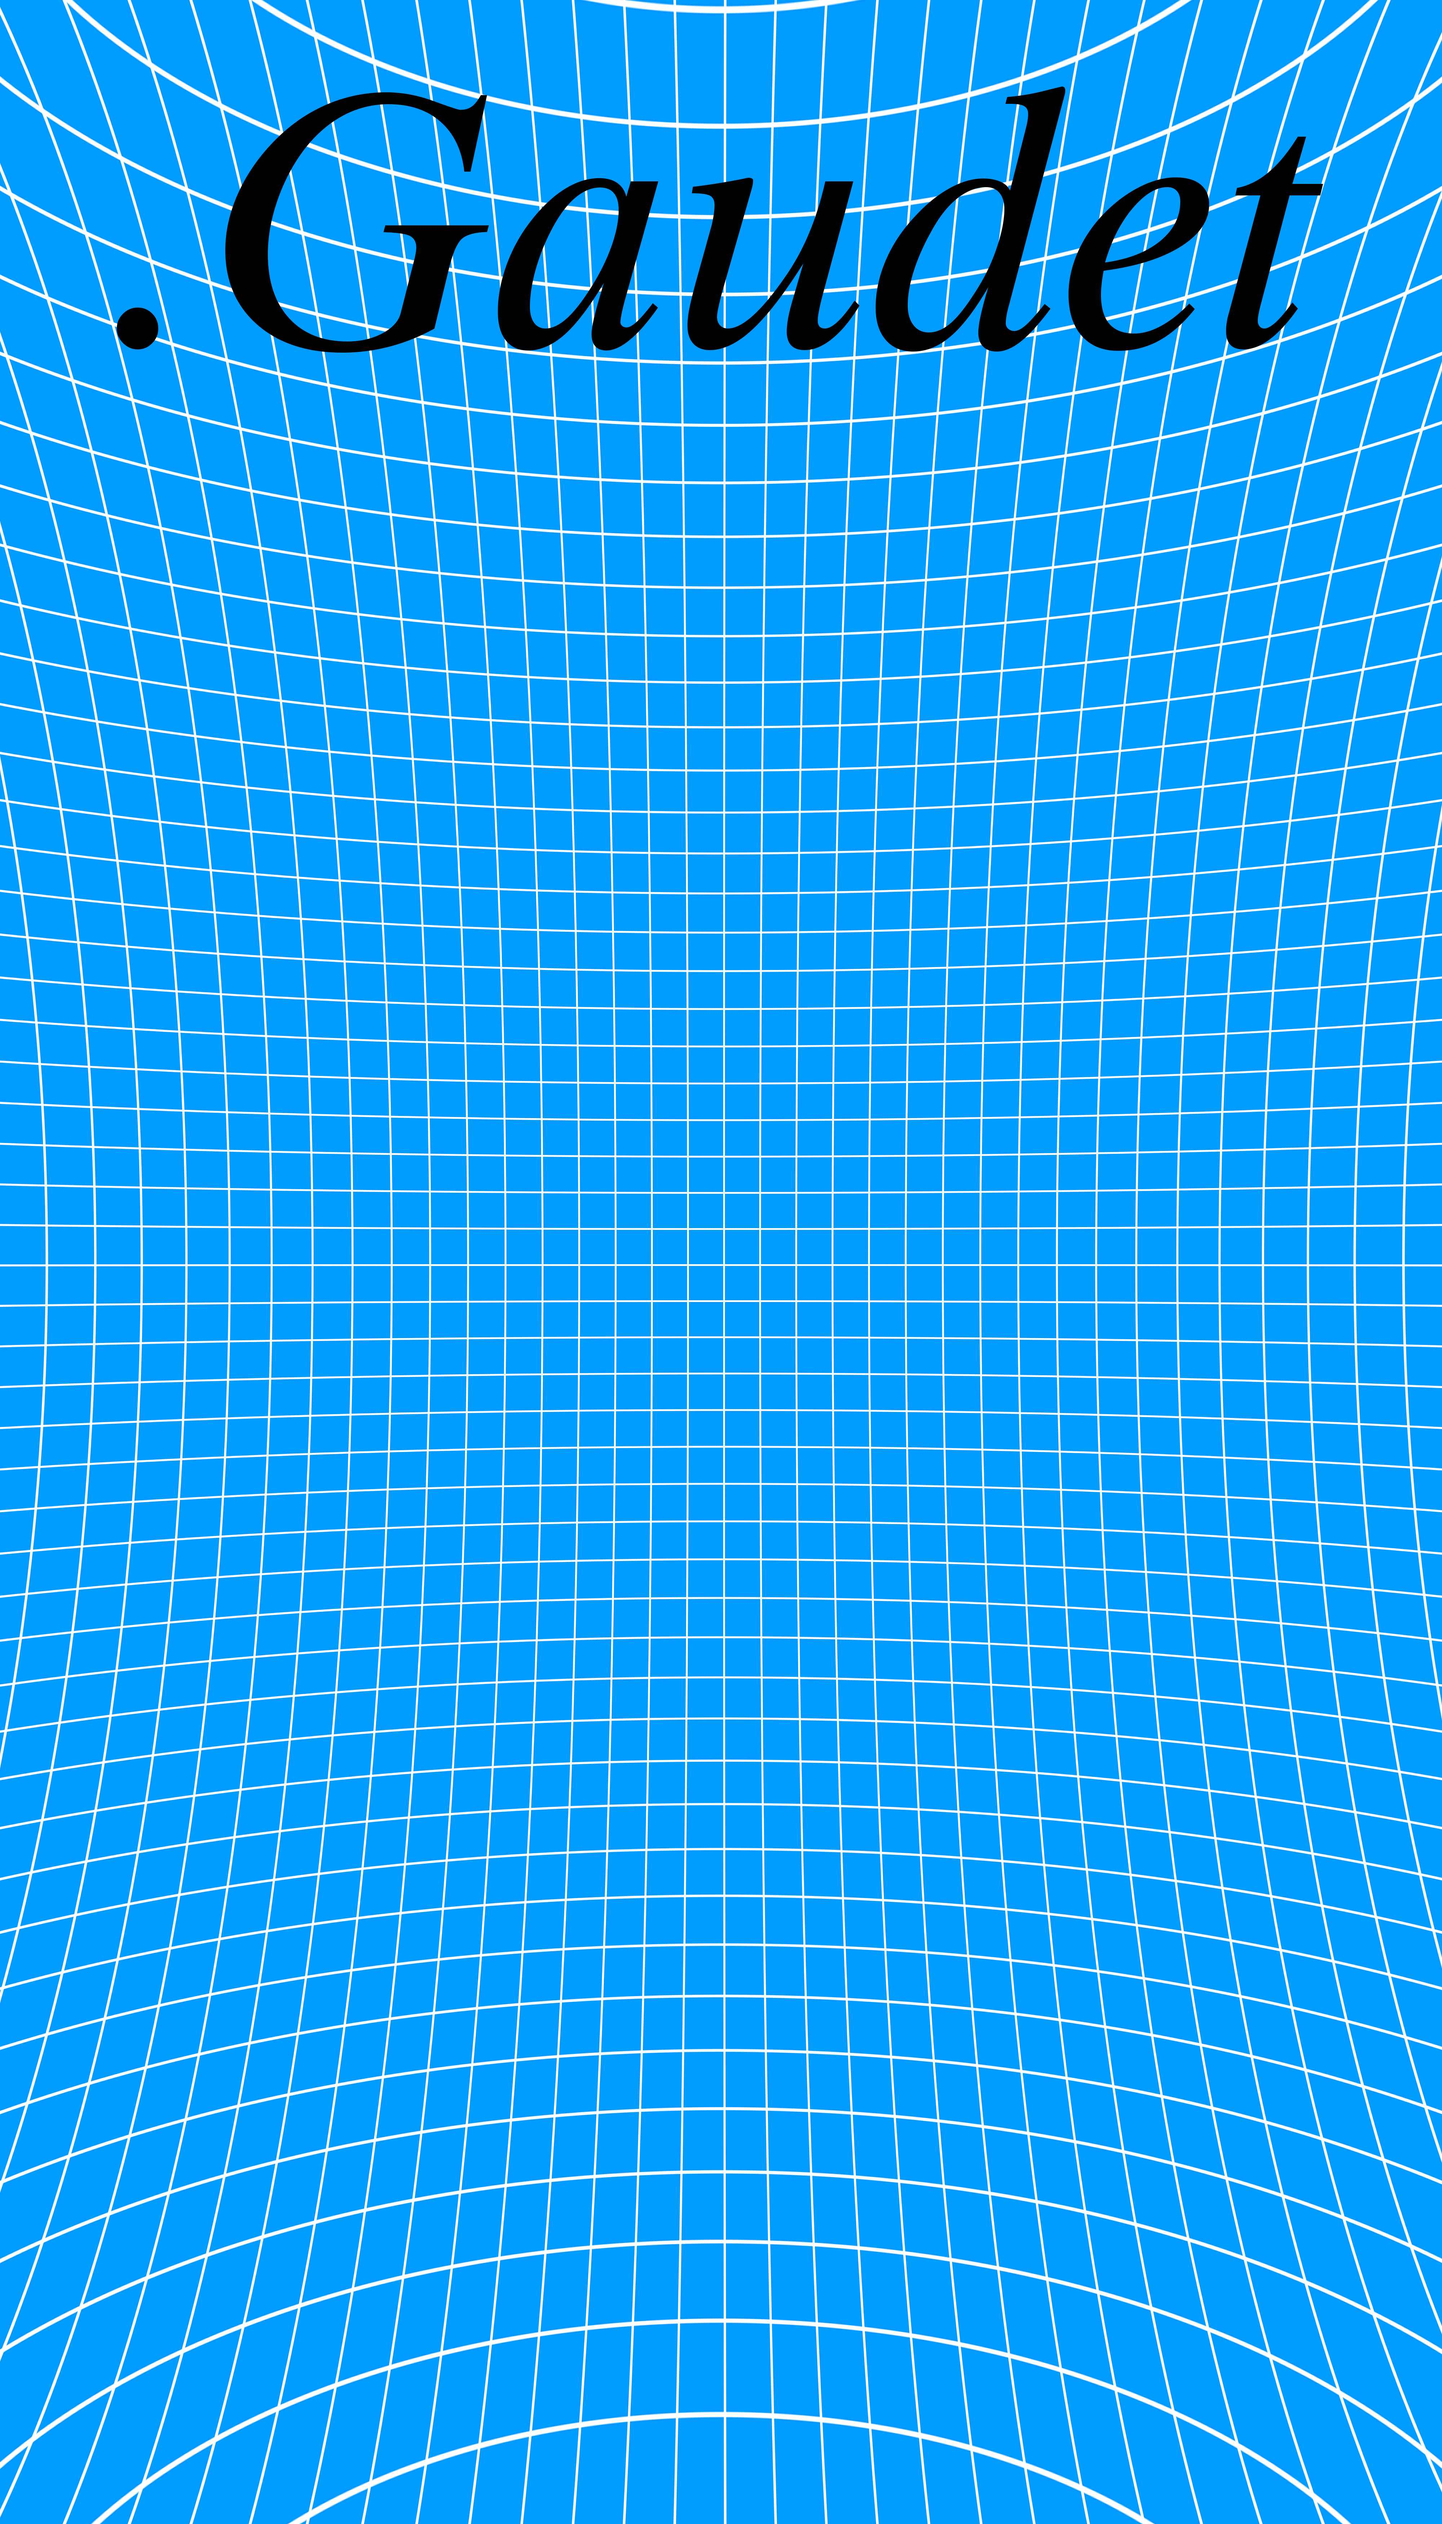
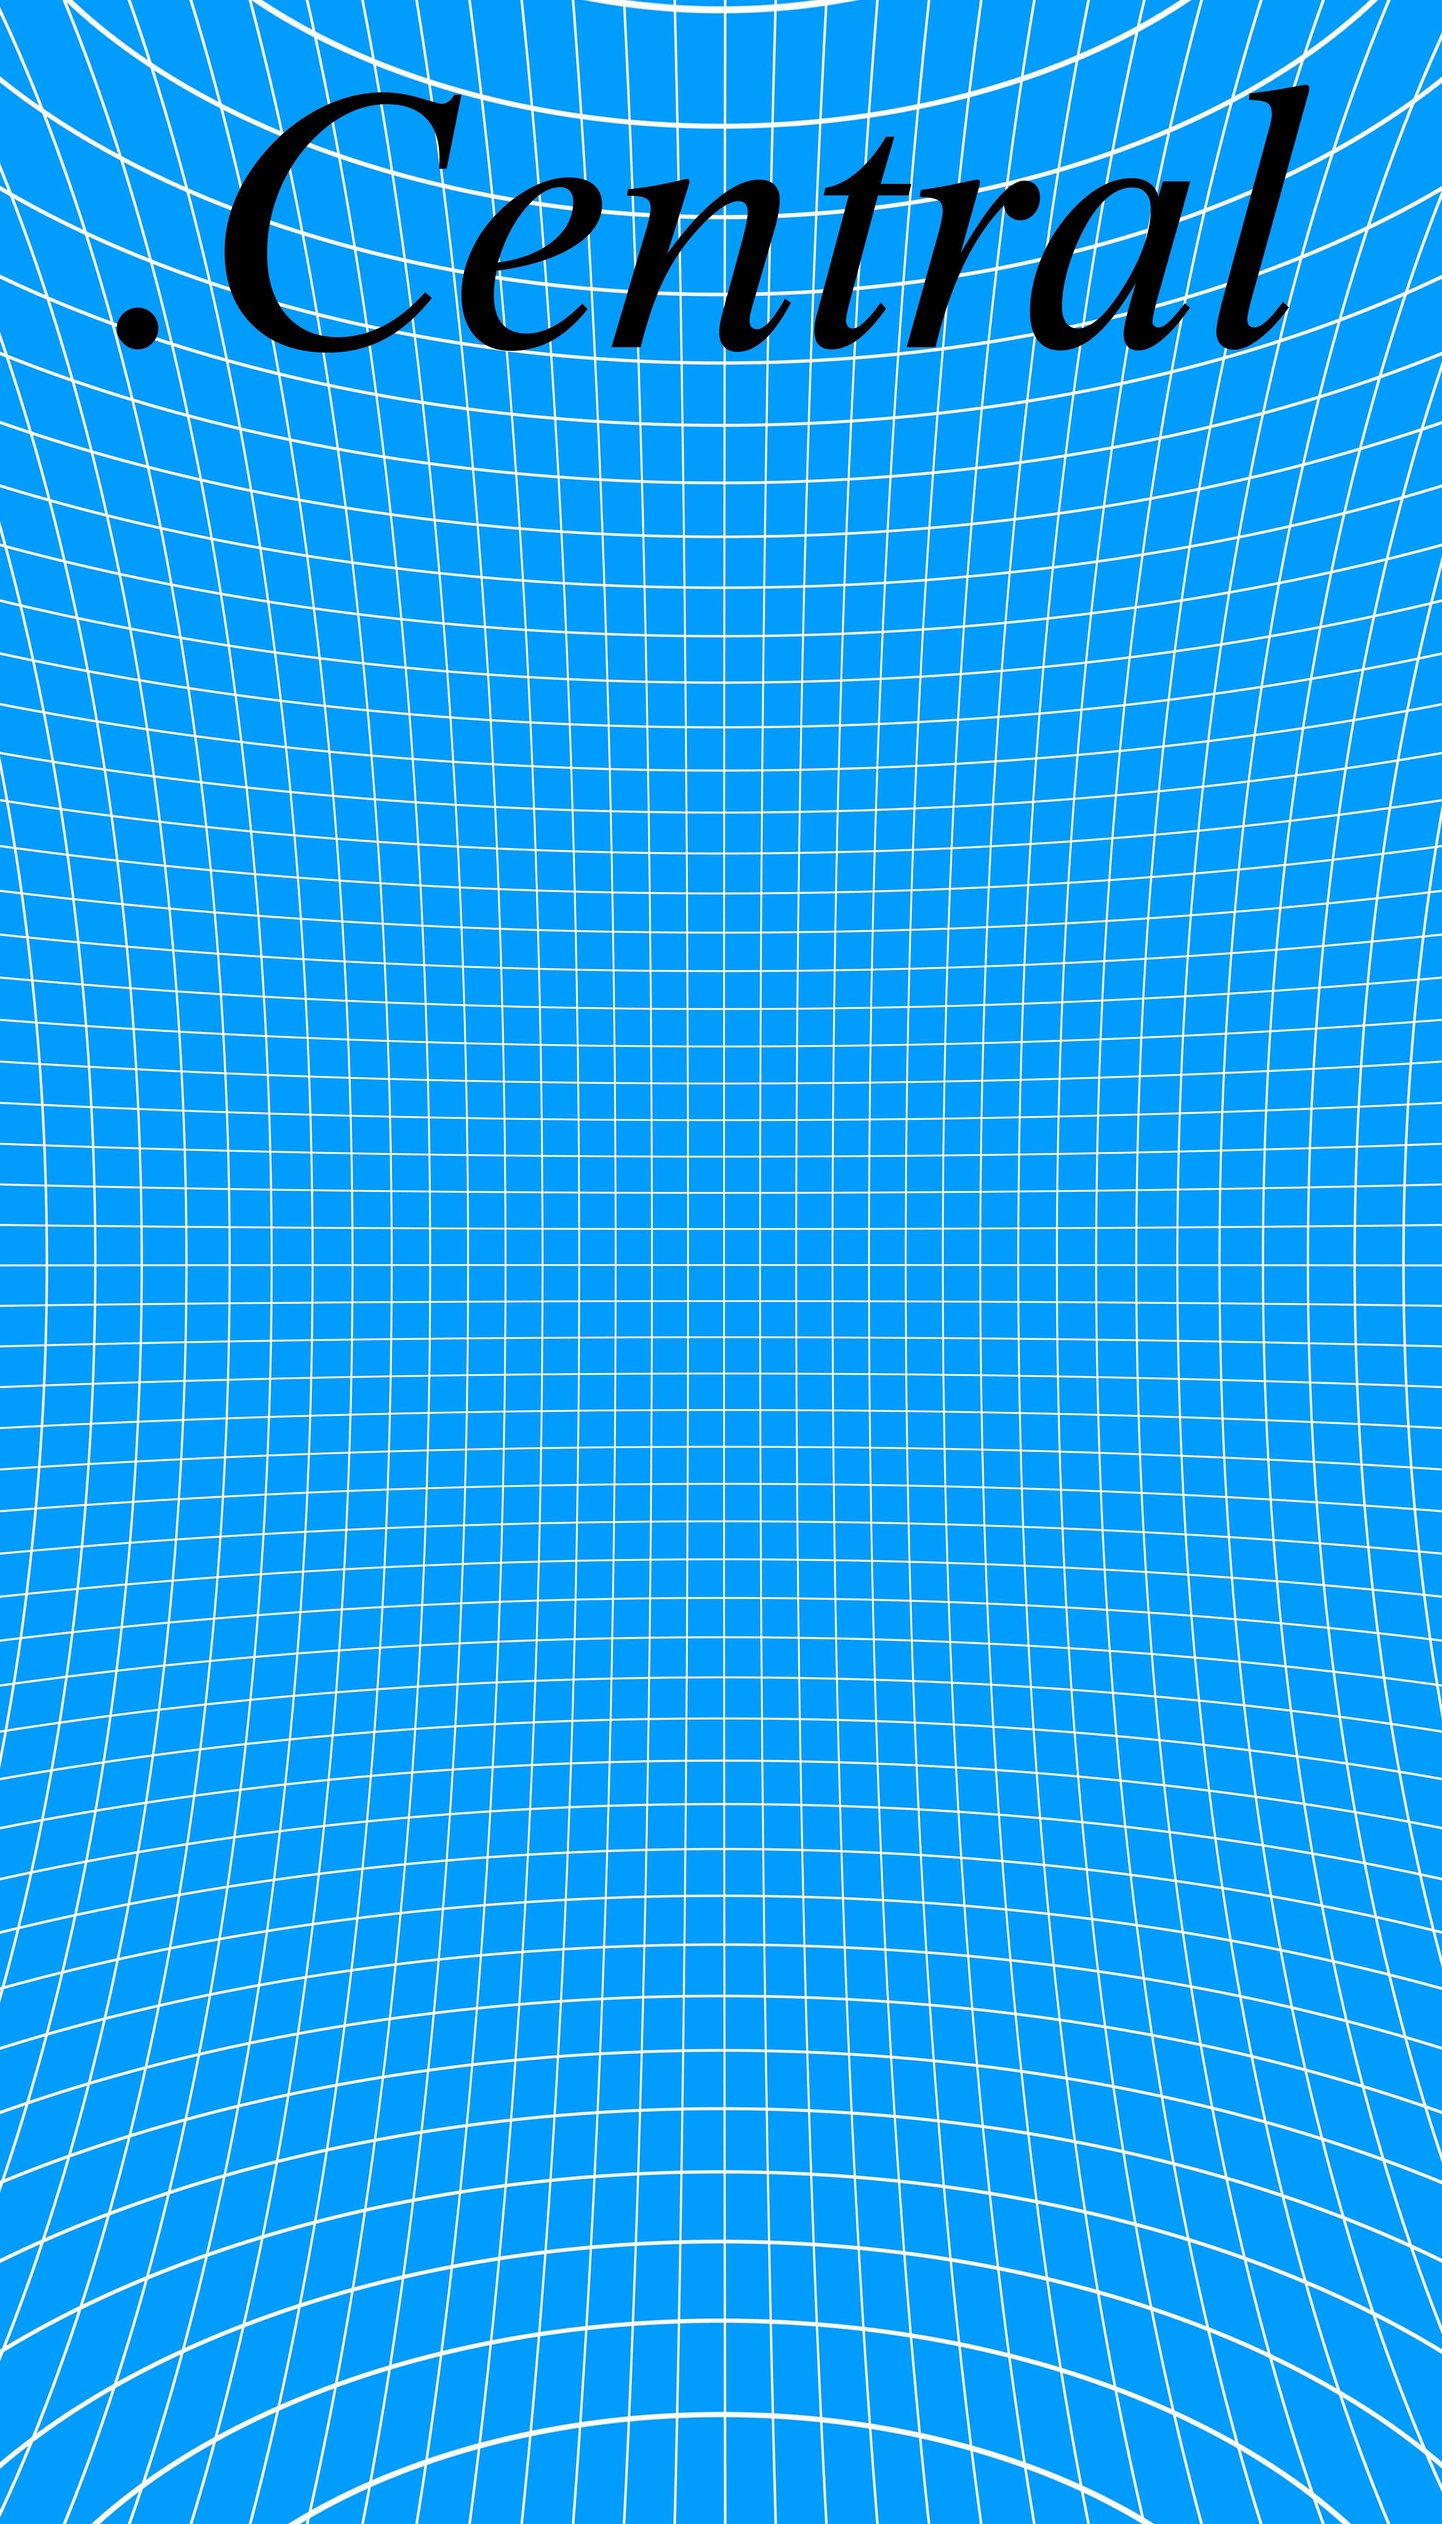
adding of central page

Changed region(s): [[0.25, 0.0311, 0.9062, 0.1557]]

diff --git a/Home/index.html b/Home/index.html
@@ -3,18 +3,6 @@
   <head>
   <title>.Render1</title>
     <style>
-        /* Preloads images */
-            {
-        width: 0px;
-        height: 0px;
-        display: inline;
-        background-image: url(Images/Computer/Comp1.png);
-        background-image: url(Images/Computer/Comp2.png);
-        background-image: url(Images/Sofa/Sofa1.png);
-        background-image: url(Images/Sofa/Sofa2.png);
-        background-image: url(Images/Space/Spac1.png);
-        background-image: url(Images/Space/Spac2.png);
-        }
         /* Creats parallax effect */
       .parallax {
           /* The image used */
@@ -36,13 +24,13 @@
       }
       /* Adds backgroud color, font size, boarder style and removes white margin to content */
       #content {
-        background-color: #009688;
+        background-color: #009bfe;
         font-size:36px;
         border-style: solid;
         width: 100vw;
       }
       #comp-brb {
-        background-color: #00776c;
+        background-color: #009bfe;
         width: 100vw;
         height: auto;
       }
@@ -61,7 +49,7 @@
         font-size: 2vw;
       }
       #ani-img {
-        background-color: #009688;
+        background-color: #009bfe;
       }
       hr {
           display: block;
@@ -70,19 +58,8 @@
           background-color: black;
           border-color: black;
       }
-      #with-bg-size {
-        background-image: url("Images/webspliter.jpg");
-        width: 100vw;
-        height: 10vh;
-        background-position: center;
-        /* Make the background image cover the area of the <div>, and clip the excess */
-        background-size: cover;
-      }
       h3 {
-        font-family: 'ABeeZee';font-size: 3vw;
-      }
-      #ani-img {
-        background-color: #009688;
+        font-size: 3vw;
       }
     </style>
   </head>
@@ -120,22 +97,11 @@
     </center>
     <div id="comp-brb" style="white-space:nowrap">
     <img src="Comp1.png" style="width: 40%; height:auto; float:left;"/>
-    <div style="display:inline; white-space:nowrap;">
-    <div class="content1">
-<<<<<<< HEAD
-    <div class="spliter"></div> <br />
-    <img src="Images/Computer/Comp1.png" style="width:100vw;height:auto;"/>
-=======
-    <hr />
-    <img src="Images/Computer/Comp1.png" style="width:50%;height:auto;"/>
->>>>>>> 812ea14fe432a8ec445584e15d77e23db0de3a03
-    <h1>The Computer.</h1>
-    <h3>I made this retro computer render in the cycles render engine within
-       blender. I spend a weekend  <br />making this and utilized uv
-      unwrapping, Node Based materials, Keylighting, <br />and Modeling using loop cuts and subdivision modifiers.</h3>
+    <div style="display:inline; white-space:nowrap;"></div>
     </div>
-  </div>
-    </div>
+    <center>
+      <h1>Under constuction</h1>
+    </center>
   </div>
   </body>
 </html>
